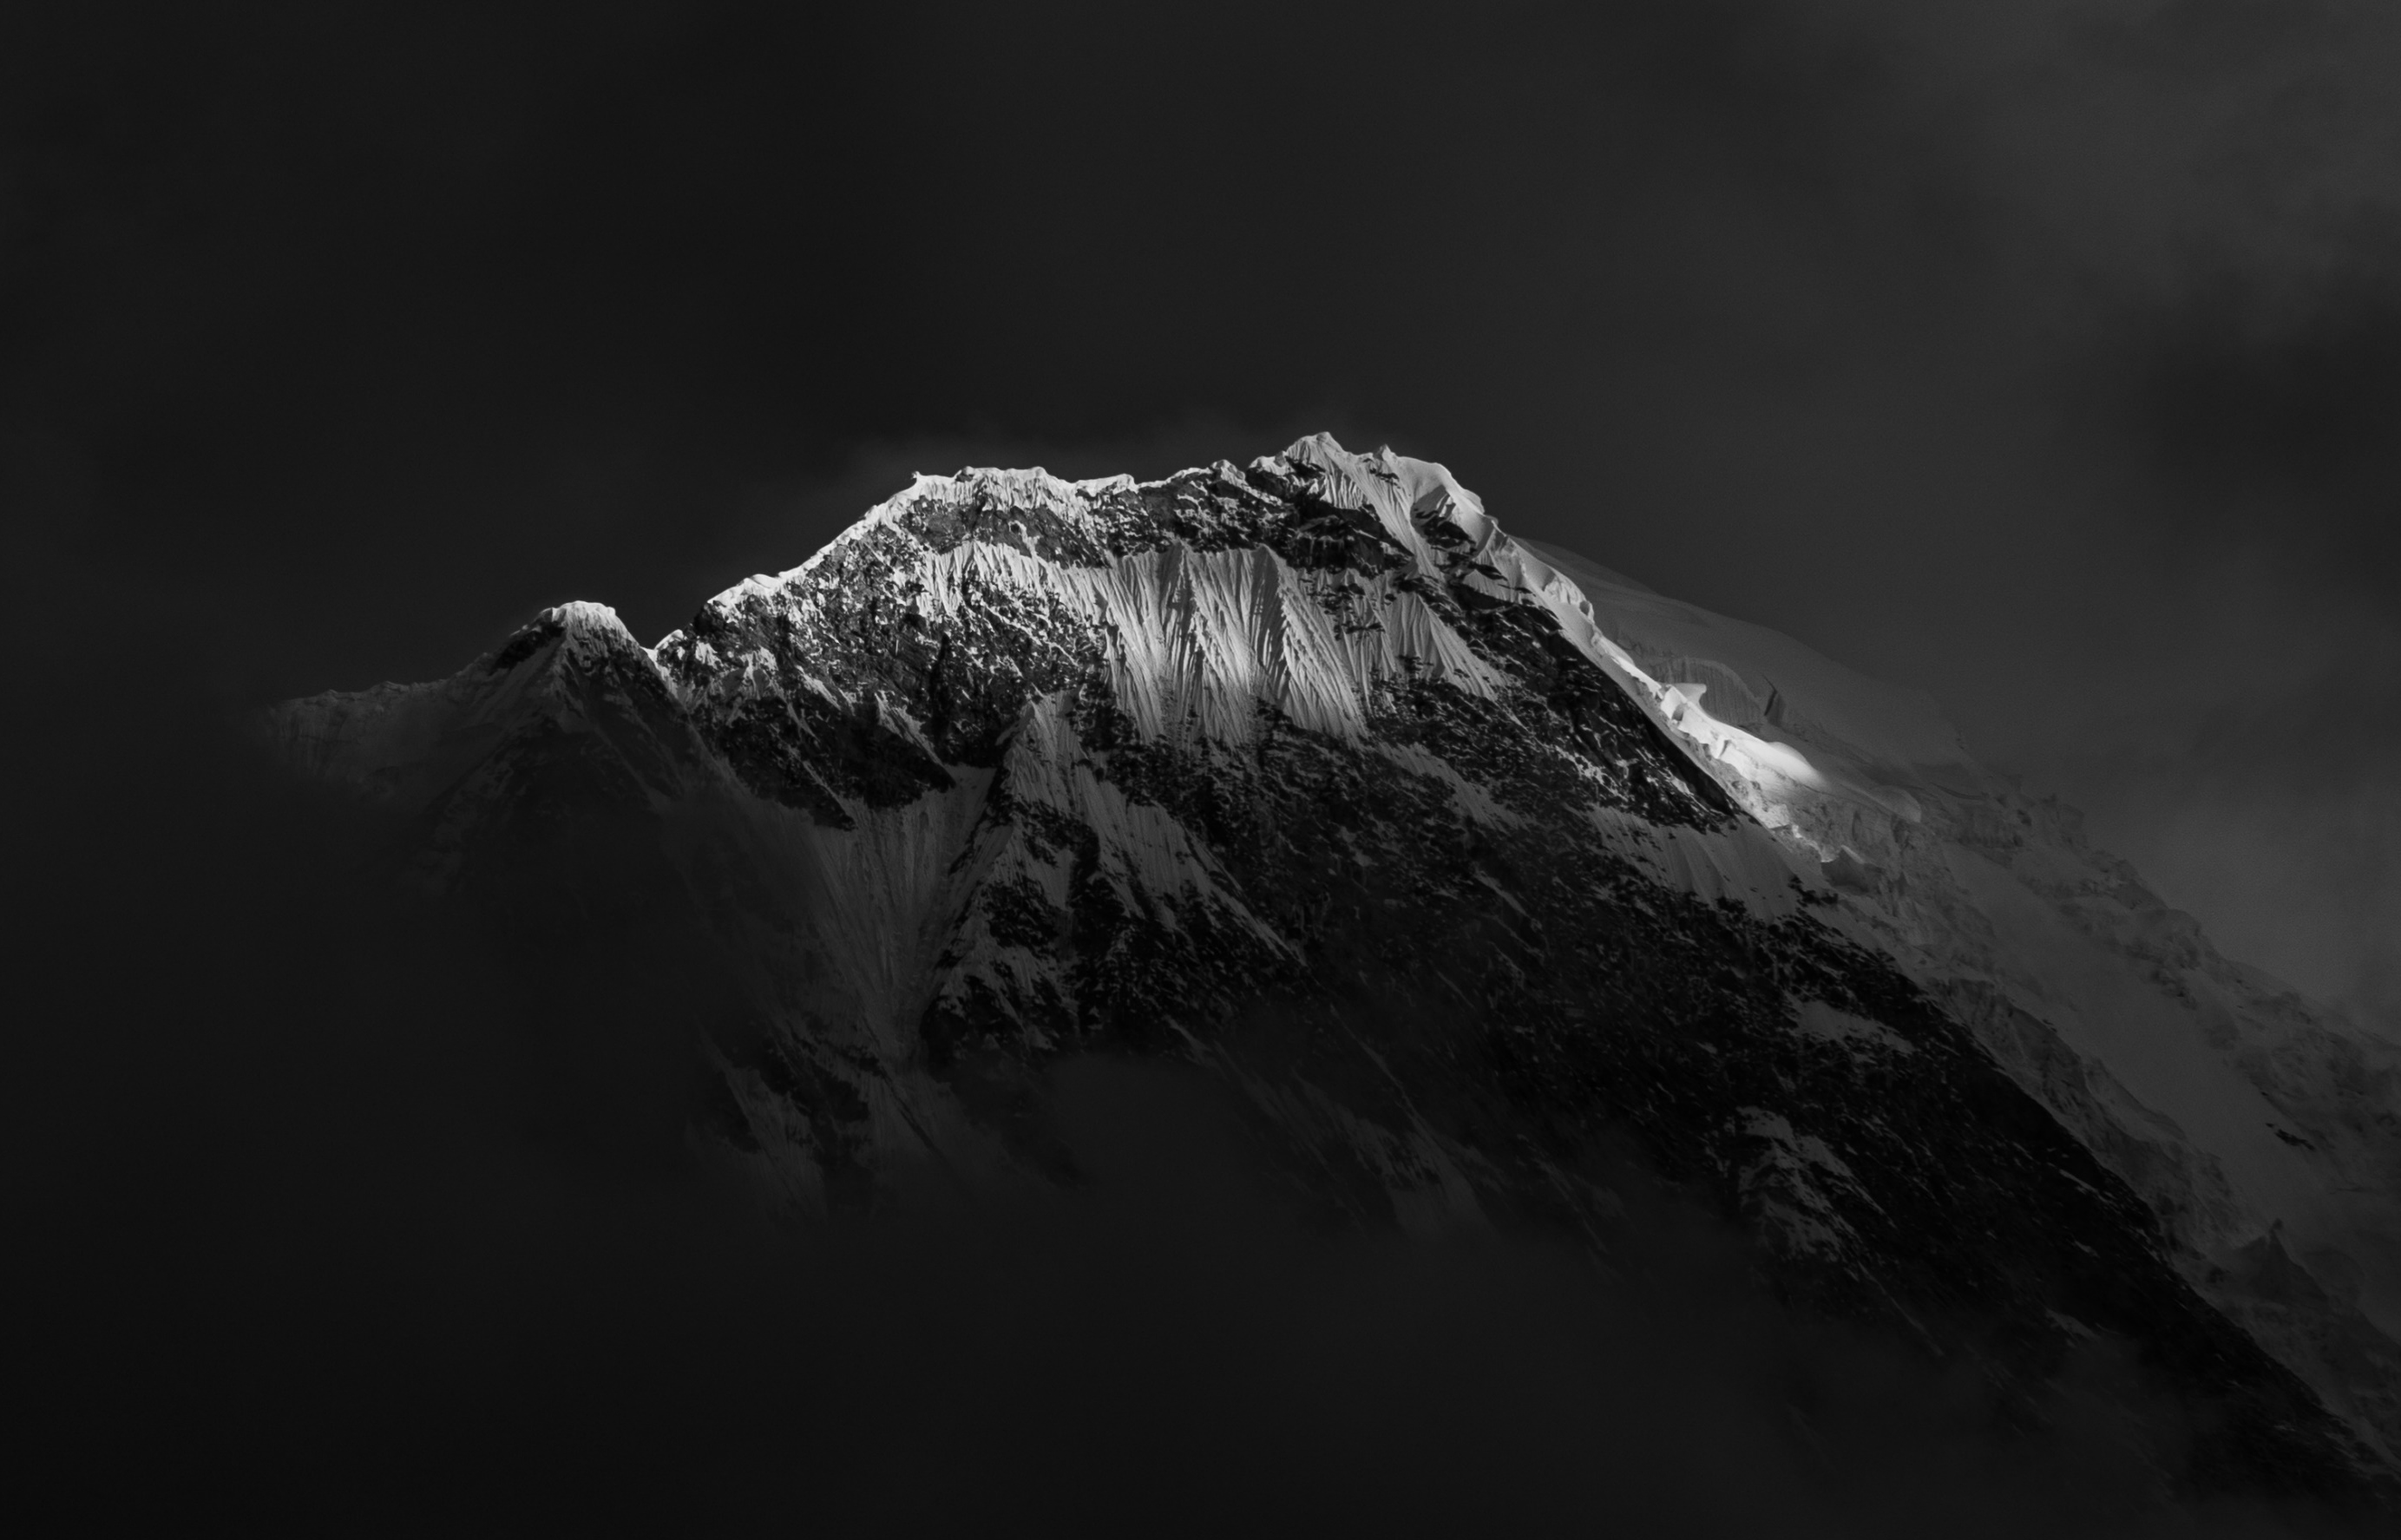
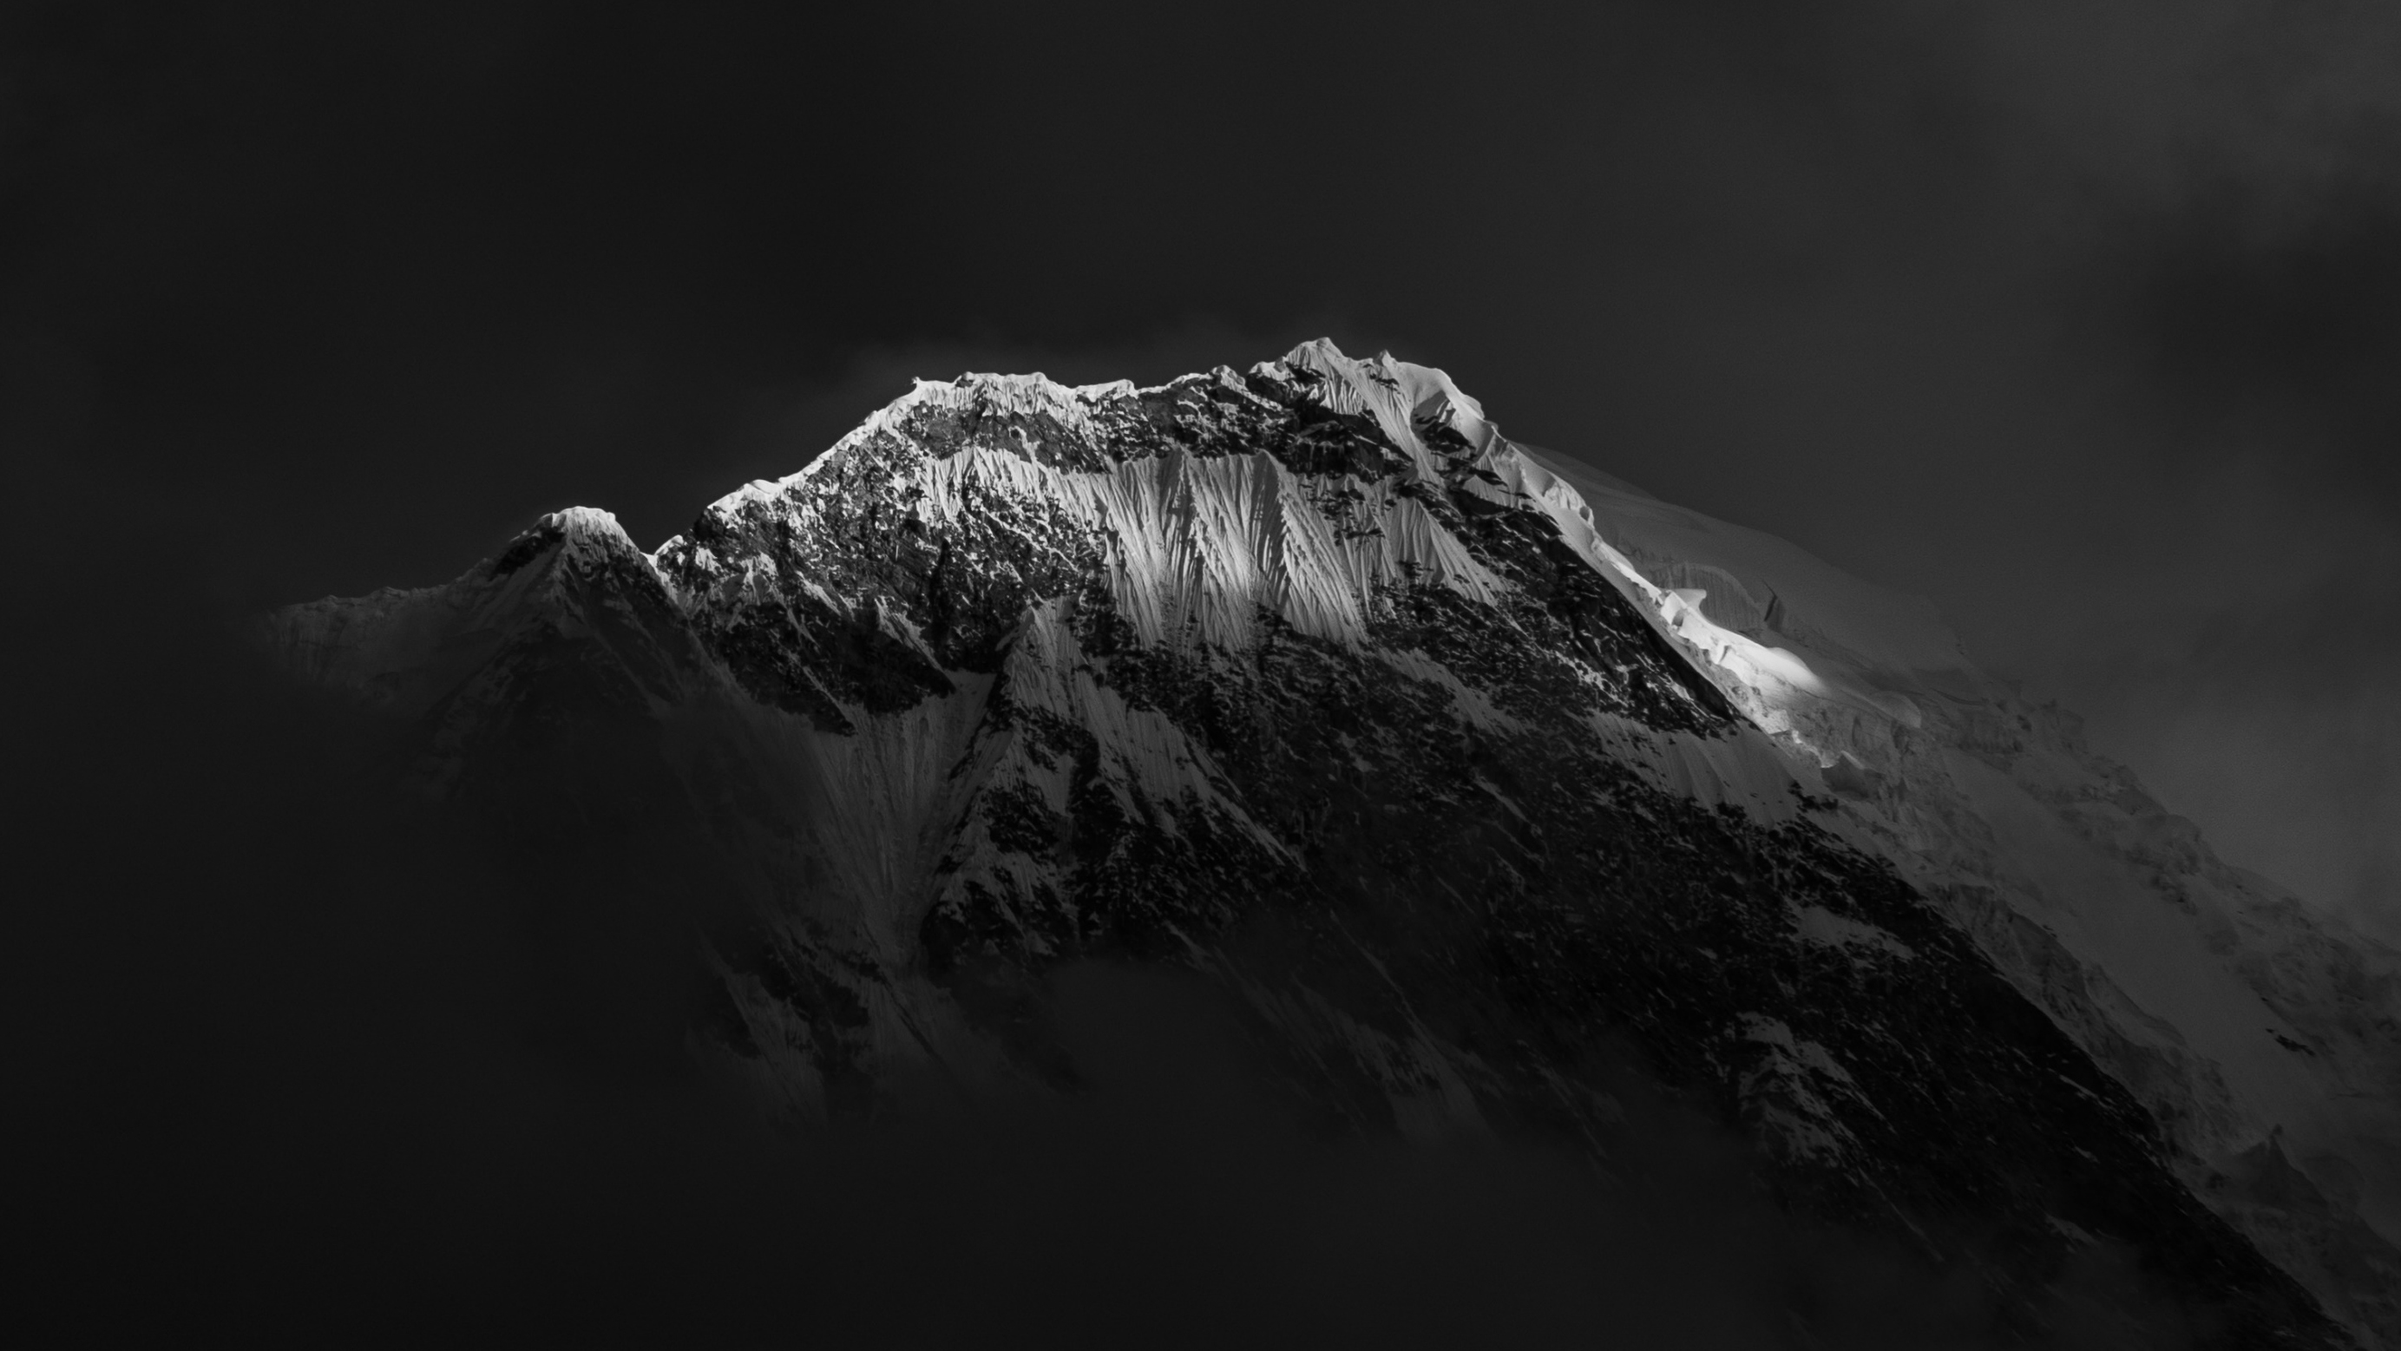
E-Ga: todas las imagenes desde carpeta E-Ga (O-O, O-Mu-Z, O-Mu-F) posiciones 1-9

diff --git a/obras-exclusivas.js b/obras-exclusivas.js
@@ -49,8 +49,8 @@ const obrasExclusivas = [
   {
     titulo: 'Llaima en Nubes',
     imgFoto: 'shared/assets/images/obras/E-Ga/O-O (1).jpg',
-    imgZoom: 'shared/assets/images/obras/5-O-Mu-Z.jpg',
-    imgFull: 'shared/assets/images/obras/4-O-Mu-F.jpg',
+    imgZoom: 'shared/assets/images/obras/E-Ga/O-Mu-Z (1).jpg',
+    imgFull: 'shared/assets/images/obras/E-Ga/O-Mu-F (1).jpg',
     descripcion: 'Episodio único y poético de un volcán icónico, que luego de muchas visitas se mostró de una manera irrepetible: vestido de nubes por tan solo unos breves minutos.',
     descripcion_en: 'A unique and poetic episode of an iconic volcano, which after many visits revealed itself in an unrepeatable way — dressed in clouds for just a few brief minutes.',
     series: [
@@ -66,8 +66,8 @@ const obrasExclusivas = [
   {
     titulo: 'Nodriza',
     imgFoto: 'shared/assets/images/obras/E-Ga/O-O (2).jpg',
-    imgZoom: 'shared/assets/images/obras/14-O-Mu-Z.jpg',
-    imgFull: 'shared/assets/images/obras/13-O-Mu-F.jpg',
+    imgZoom: 'shared/assets/images/obras/E-Ga/O-Mu-Z (2).jpg',
+    imgFull: 'shared/assets/images/obras/E-Ga/O-Mu-F (2).jpg',
     descripcion: 'Entre las magias meteorológicas de las montañas aparecen las nubes lenticulares. La magnitud y perfección de esta sobre el blanco puro del Volcán Llaima se muestra como una nave nodriza acechando.',
     descripcion_en: 'Among the meteorological wonders of the mountains appear lenticular clouds. The magnitude and perfection of this one hovering over the pure white of Llaima Volcano resembles a mothership looming overhead.',
     series: [
@@ -83,8 +83,8 @@ const obrasExclusivas = [
   {
     titulo: 'Caminos',
     imgFoto: 'shared/assets/images/obras/E-Ga/O-O (3).jpg',
-    imgZoom: 'shared/assets/images/obras/17-O-Mu-Z.jpg',
-    imgFull: 'shared/assets/images/obras/16-O-Mu-F.jpg',
+    imgZoom: 'shared/assets/images/obras/E-Ga/O-Mu-Z (3).jpg',
+    imgFull: 'shared/assets/images/obras/E-Ga/O-Mu-F (3).jpg',
     descripcion: 'En la máxima expresión del minimalismo en la naturaleza aparece seguido un paisaje de nieve. Cuando se suman nubes blancas bajas y apenas unos senderos que nos muestran ínfimos, se hace poesía.',
     descripcion_en: 'In the highest expression of minimalism in nature, a snow landscape often appears. When low white clouds drift in and only a few trails remind us of our smallness, it becomes poetry.',
     series: [
@@ -100,8 +100,8 @@ const obrasExclusivas = [
   {
     titulo: 'Penitentes',
     imgFoto: 'shared/assets/images/obras/E-Ga/O-O (4).jpg',
-    imgZoom: 'shared/assets/images/obras/23-O-Mu-Z.jpg',
-    imgFull: 'shared/assets/images/obras/22-O-Mu-F.jpg',
+    imgZoom: 'shared/assets/images/obras/E-Ga/O-Mu-Z (4).jpg',
+    imgFull: 'shared/assets/images/obras/E-Ga/O-Mu-F (4).jpg',
     descripcion: 'El cerro El Plomo, el más alto de la región de Santiago, con su historia Inca y su cumbre de 5424 msnm. Esta imagen muestra unos penitentes casi diseñados en su campamento base, el Federación.',
     descripcion_en: 'Cerro El Plomo, the highest peak in the Santiago region, with its Inca history and 5,424 m summit. This image shows the nearly sculpted penitentes at its base camp, the Federación.',
     series: [
@@ -118,8 +118,8 @@ const obrasExclusivas = [
   {
     titulo: 'Llaima en Nubes II',
     imgFoto: 'shared/assets/images/obras/E-Ga/O-O (5).jpg',
-    imgZoom: 'shared/assets/images/obras/5-O-Mu-Z.jpg',
-    imgFull: 'shared/assets/images/obras/4-O-Mu-F.jpg',
+    imgZoom: 'shared/assets/images/obras/E-Ga/O-Mu-Z (5).jpg',
+    imgFull: 'shared/assets/images/obras/E-Ga/O-Mu-F (5).jpg',
     descripcion: 'Episodio único y poético de un volcán icónico.',
     descripcion_en: 'A unique and poetic episode of an iconic volcano.',
     series: [{ precio: '680 USD', copia: '2/3', vendida: false, destacada: true }],
@@ -131,8 +131,8 @@ const obrasExclusivas = [
   {
     titulo: 'Nodriza II',
     imgFoto: 'shared/assets/images/obras/E-Ga/O-O (6).jpg',
-    imgZoom: 'shared/assets/images/obras/14-O-Mu-Z.jpg',
-    imgFull: 'shared/assets/images/obras/13-O-Mu-F.jpg',
+    imgZoom: 'shared/assets/images/obras/E-Ga/O-Mu-Z (6).jpg',
+    imgFull: 'shared/assets/images/obras/E-Ga/O-Mu-F (6).jpg',
     descripcion: 'La magnitud y perfección de esta nube lenticular sobre el Volcán Llaima.',
     descripcion_en: 'The magnitude and perfection of this lenticular cloud over Llaima Volcano.',
     series: [{ precio: '320 USD', copia: '1/3', vendida: false, destacada: true }],
@@ -144,8 +144,8 @@ const obrasExclusivas = [
   {
     titulo: 'Caminos II',
     imgFoto: 'shared/assets/images/obras/E-Ga/O-O (7).jpg',
-    imgZoom: 'shared/assets/images/obras/17-O-Mu-Z.jpg',
-    imgFull: 'shared/assets/images/obras/16-O-Mu-F.jpg',
+    imgZoom: 'shared/assets/images/obras/E-Ga/O-Mu-Z (7).jpg',
+    imgFull: 'shared/assets/images/obras/E-Ga/O-Mu-F (7).jpg',
     descripcion: 'Minimalismo puro. Un paisaje de nieve, nubes bajas y senderos ínfimos.',
     descripcion_en: 'Pure minimalism. A snow landscape, low clouds and faint trails.',
     series: [{ precio: '450 USD', copia: '1/3', vendida: false, destacada: true }],
@@ -157,8 +157,8 @@ const obrasExclusivas = [
   {
     titulo: 'Penitentes II',
     imgFoto: 'shared/assets/images/obras/E-Ga/O-O (8).jpg',
-    imgZoom: 'shared/assets/images/obras/23-O-Mu-Z.jpg',
-    imgFull: 'shared/assets/images/obras/22-O-Mu-F.jpg',
+    imgZoom: 'shared/assets/images/obras/E-Ga/O-Mu-Z (8).jpg',
+    imgFull: 'shared/assets/images/obras/E-Ga/O-Mu-F (8).jpg',
     descripcion: 'El cerro El Plomo y sus penitentes en el campamento base Federación.',
     descripcion_en: 'Cerro El Plomo and its penitentes at the Federación base camp.',
     series: [{ precio: '350 USD', copia: '1/3', vendida: false, destacada: true }],
@@ -170,8 +170,8 @@ const obrasExclusivas = [
   {
     titulo: 'Llaima en Nubes III',
     imgFoto: 'shared/assets/images/obras/E-Ga/O-O (9).jpg',
-    imgZoom: 'shared/assets/images/obras/5-O-Mu-Z.jpg',
-    imgFull: 'shared/assets/images/obras/4-O-Mu-F.jpg',
+    imgZoom: 'shared/assets/images/obras/E-Ga/O-Mu-Z (9).jpg',
+    imgFull: 'shared/assets/images/obras/E-Ga/O-Mu-F (9).jpg',
     descripcion: 'Un volcán icónico vestido de nubes por tan solo unos breves minutos.',
     descripcion_en: 'An iconic volcano dressed in clouds for just a few brief minutes.',
     series: [{ precio: '1.100 USD', copia: '3/3', vendida: false, destacada: true }],
